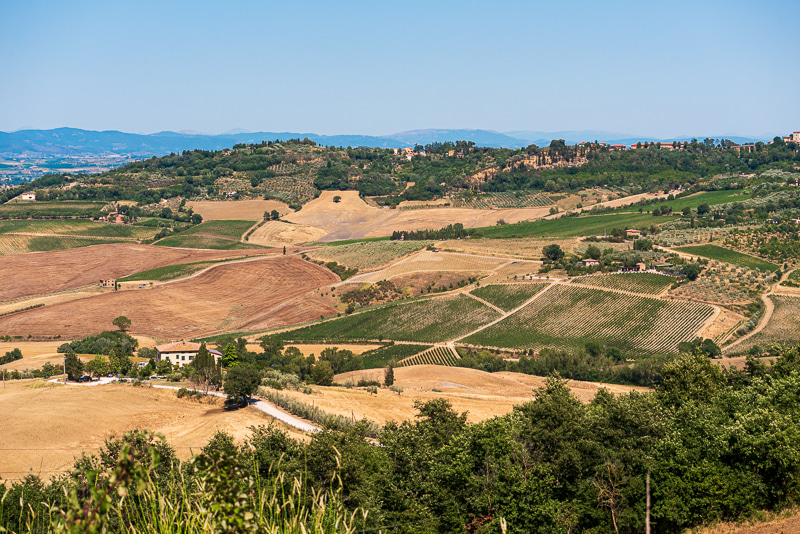
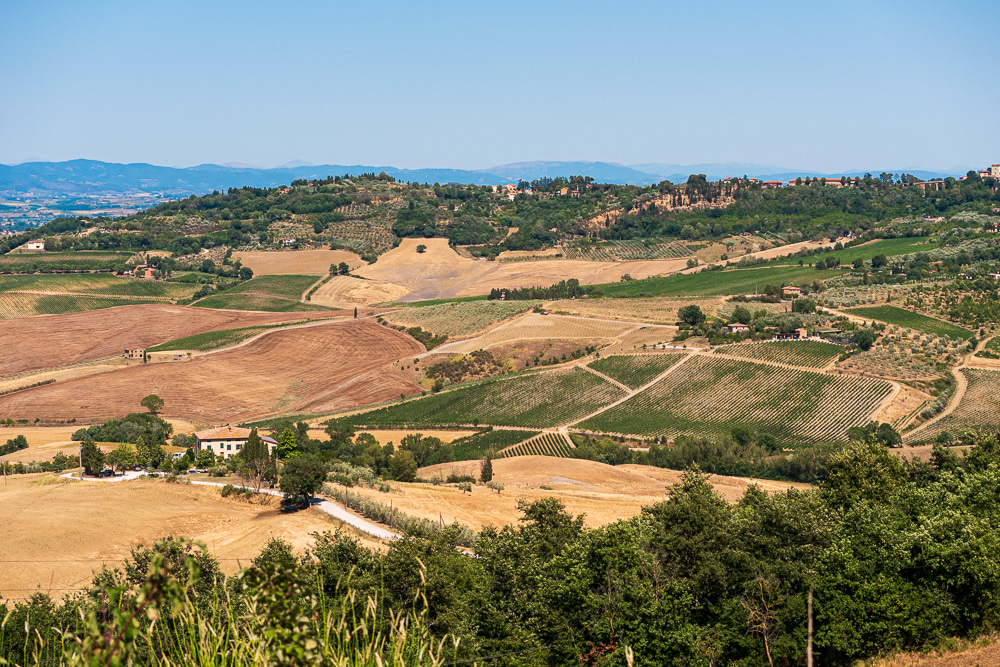
New a bit bigger images. Added intersection observer to style nav items. Switched some divs to section. Added footer. Added temporary alt tags to images.

Changed region(s): [[0.6875, 0.5094, 0.9062, 0.6592], [0.5, 0.6592, 0.5625, 0.6891]]

diff --git a/src/index.html b/src/index.html
@@ -14,86 +14,86 @@
   <nav>
     <ul>
       <li>
-        <a href=#home>Hem</a>
+        <a id="intro-nav" href=#intro>Intro</a>
       </li>
       <li>
-        <a href=#lessions>Lektionerna</a>
+        <a id="lessions-nav" href=#lessions>Lektionerna</a>
       </li>
       <li>
-        <a href=#about>Om mig</a>
+        <a id="about-nav" href=#about>Om mig</a>
       </li>
       <li>
-        <a href=#prices>Priser</a>
+        <a id="prices-nav" href=#prices>Priser</a>
       </li>
       <li>
-        <a href=#contact>Kontakt</a>
+        <a id="contact-nav" href=#contact>Kontakt</a>
       </li>
     </ul>
   </nav>
-  <div id="home" class="main-content">
-    <div class="main-content__section">
-      <div id="top-gallery" class="gallery">
+  <div class="main-content">
+    <section id="intro">
+      <div class="gallery">
         <div class="gallery__image gallery__image--1">
-          <img src="images/_1010360.jpg">
+          <img src="images/_1010360.jpg" alt="Foto från Italien 1">
           <div class="image__caption">
             <span>Skulle du vilja promenera i en italiensk by och kunna prata med människorna där?</span>
           </div>
         </div>
         <div class="gallery__image gallery__image--2">
-          <img src="images/_1050881.jpg"></img>
+          <img src="images/_1050881.jpg" alt="Foto från Italien 2"></img>
           <div class="image__caption">
             <span></span>
           </div>
         </div>
         <div class="gallery__image gallery__image--3">
-          <img src="images/_1010485.jpg"></img>
+          <img src="images/_1010485.jpg" alt="Foto från Italien 3"></img>
           <div class="image__caption">
             <span>Skulle du vilja sitta i en mysig restaurang och kunna beställa på italienska?</span>
           </div>
         </div>
         <div class="gallery__image gallery__image--4">
-          <img src="images/_1020068.jpg"></img>
+          <img src="images/_1020068.jpg" alt="Foto från Italien 4"></img>
           <div class="image__caption">
             <span>skulle du vilja kunna be om tips på fantastiska och hemliga vingårdar på italienska?</span>
           </div>
         </div>
         <div class="gallery__image gallery__image--5">
-          <img src="images/_1060475.jpg"></img>
+          <img src="images/_1060475.jpg" alt="Foto på mig 1"></img>
           <div class="image__caption">
             <span>Jag kan hjälpa :)</span>
           </div>
         </div>
         <div class="gallery__image gallery__image--6">
-          <img src="images/_1090565.jpg"></img>
+          <img src="images/_1090565.jpg" alt="Foto från Italien 5"></img>
           <div class="image__caption">
             <span>Skulle du vilja resa till Cinque Terre och kunna fråga efter vägen på italienska?</span>
           </div>
         </div>
         <div class="gallery__image gallery__image--7">
-          <img src="images/_1090486.jpg"></img>
+          <img src="images/_1090486.jpg" alt="Foto från Italien 6"></img>
           <div class="image__caption">
             <span>Skulle du vilja vandra i Alperna och kunna förstå det som står på skyltarna?</span>
           </div>
         </div>
         <div class="gallery__image gallery__image--8">
-          <img src="images/_1020224.jpg"></img>
+          <img src="images/_1020224.jpg" alt="Foto från Italien 7"></img>
           <div class="image__caption">
             <span>Skulle du vilja besöka ... och kunna prata med personalen på hotellet på italienska?</span>
           </div>
         </div>
         <small class="copyright">© Jesper Klintestam</small>
       </div>
-    </div>
-    <div class="main-content__section">
-      <h1>Privatlektioner i italienska</h1>
-      <p>Du har kanske funderat länge på att lära dig italienska. Reser du ofta dit eller har du ett hus där? Älskar
-        du
-        italiensk mat och kultur? Eller är du fascinerad av italiensk konst och musik? Kanske allt...</p>
-      <p>Hos mig kan du lära dig italienska i din egen takt och på valfri nivå. Du väljer själv vad du vill fokusera
-        på
-        och dina mål med lektionerna. Jag anpassar lektionerna och studiematerialet baserat på dina önskemål.</p>
-    </div>
-    <div id="lessions" class="main-content__section">
+      <section>
+        <h1>Privatlektioner i italienska</h1>
+        <p>Du har kanske funderat länge på att lära dig italienska. Reser du ofta till Italien eller har ett hus där?
+          Älskar
+          du italiensk mat och kultur? Eller är du fascinerad av italiensk konst och musik? Kanske allt...</p>
+        <p>Hos mig kan du lära dig italienska i din egen takt och på valfri nivå. Du väljer själv vad du vill fokusera
+          på
+          och dina mål med lektionerna. Jag anpassar lektionerna och studiematerialet baserat på dina önskemål.</p>
+      </section>
+    </section>
+    <section id="lessions">
       <h1>Lektionerna</h1>
       <h3>Var?</h3>
       <p>Oftast håller jag mina lektioner på Sundbybergs bibliotek där man kan boka fina studierum. Om du hellre vill ha
@@ -120,8 +120,8 @@
           </p>
         </div>
       </div>
-    </div>
-    <div id="about" class="main-content__section">
+    </section>
+    <section id="about">
       <h1>Om mig</h1>
       <div class="position-relative">
         <div class="flex-row simple-gallery">
@@ -152,8 +152,8 @@
           Mi piace l'arte, viaggiare e cucinare!
         </p>
       </div>
-    </div>
-    <div id="prices" class="main-content__section">
+    </section>
+    <section id="prices">
       <h1>Priser</h1>
       <p>1 deltagare 400 kr/tim</p>
       <p>2 deltagare 600 kr/tim</p>
@@ -165,13 +165,13 @@
         <br>
         Godkänd för F-skatt. Alla priser inkl moms.
       </p>
-      <div class="map">
+      <div class="map-container">
         <iframe width="1200" height="250" frameborder="0" style="border:0"
           src="https://www.google.com/maps/embed/v1/place?key=AIzaSyClrI_8TiuAfURDyFRSwBQ28OGXMtOnfS4&q=Sundbybergs+bibliotek"
           allowfullscreen></iframe>
       </div>
-    </div>
-    <div id="contact" class="main-content__section">
+    </section>
+    <section id="contact">
       <h1>Kontakta mig</h1>
       <p>
         Email: <a href="mailto:fratonelli8@gmail.com" target="_blank">fratonelli8@gmail.com</a>
@@ -179,9 +179,10 @@
       <p>
         Tel: 0700-602068
       </p>
-    </div>
+    </section>
   </div>
-  <!-- <script src="js/scripts.js"></script> -->
+  <footer></footer>
+  <script src="scripts.js"></script>
 </body>
 
 </html>

diff --git a/src/styles.scss b/src/styles.scss
@@ -8,6 +8,7 @@ $brown-light: #f1dbd3;
 $brown-medium: #af968c;
 $brown-medium-transparent: rgba(175, 150, 140, 0.6);
 $brown-dark: #74262c;
+$navbar-height: calc(0.6vw + 27px);
 
 //Generic elements
 html {
@@ -33,6 +34,7 @@ nav {
   padding: 0;
   z-index: 1;
   text-align: left;
+  min-height: $navbar-height;
 
   ul {
     list-style: none;
@@ -45,9 +47,11 @@ nav {
 
   a {
     display: block;
-    padding: 6px;
+    margin: 6px;
     color: $brown-medium;
     text-decoration: none;
+    transition: border 200ms;
+    border-bottom: 1px solid transparent;
 
     @media (max-width: 600px) {
       font-size: calc(0.3em + 2.5vw);
@@ -95,6 +99,7 @@ h4,
 h5,
 h6 {
   cursor: default;
+  margin: 0;
 }
 
 img {
@@ -103,17 +108,26 @@ img {
   vertical-align: middle;
 }
 
+footer {
+  height: 10vw;
+}
+
 //Styling classes
 .flex-row {
   display: flex;
   flex-flow: wrap;
   justify-content: center;
   align-content: center;
-  position: relative;
 }
 
 .position-relative {
   position: relative;
+}
+
+//Added with js
+.current-section {
+  font-weight: bold;
+  border-bottom: 1px solid $brown-dark;
 }
 
 //Specific classes
@@ -126,18 +140,16 @@ img {
 }
 
 .main-content {
-  padding-top: 30px;
-
-  .main-content__section:nth-child(even) {
+  > section:nth-child(odd) {
     background-color: $brown-light;
   }
 }
 
-.main-content__section {
-  padding: calc(0.8% + 20px) 0;
+.main-content section {
+  padding: $navbar-height 0;
 }
 
-.main-content__section > p,
+.main-content section > p,
 nav ul {
   margin: 0 auto;
   @media (min-width: 1200px) {
@@ -155,9 +167,15 @@ nav ul {
     "sixth seventh seventh eighth  fifth";
   place-content: center;
   position: relative;
+  background-color: white;
+  padding: $navbar-height 0;
 
   @media (min-width: 992px) {
     max-height: calc(100px + 23vw);
+  }
+
+  .copyright {
+    bottom: calc(#{$navbar-height} - 1.2em);
   }
 }
 
@@ -229,6 +247,7 @@ nav ul {
 
 .simple-gallery {
   overflow: hidden;
+  margin: $navbar-height 0;
 
   @media (min-width: 600px) {
     max-height: calc(60px + 23vw);
@@ -254,6 +273,6 @@ nav ul {
   font-size: 0.8em;
 }
 
-.map iframe {
+.map-container iframe {
   max-width: 100%;
 }

diff --git a/src/scripts.js b/src/scripts.js
@@ -1,0 +1,23 @@
+
+let observer = new IntersectionObserver(entries => {
+    entries.forEach((entry) => {
+        if (entry.isIntersecting) {
+            navAnchorArray.forEach(x => x.classList.remove('current-section'));
+            if (entry.intersectionRatio < 0.9) {
+                if (entry.boundingClientRect.top < entry.intersectionRect.top) {
+                    document.getElementById(entry.target.id + '-nav').parentElement.nextElementSibling.firstElementChild.classList.add('current-section');
+                } else {
+                    document.getElementById(entry.target.id + '-nav').parentElement.previousElementSibling.firstElementChild.classList.add('current-section');
+                }
+            } else {
+                document.getElementById(entry.target.id + '-nav').classList.add('current-section');
+            }
+        }
+    });
+}, { threshold: [0, 0.9, 1], rootMargin: "50px 0px 50px 0px" });
+
+//An array with all anchor elements in nav
+const navAnchorArray = [...document.querySelectorAll('nav ul li a')];
+//An array with all the element ids to target, taken from the hrefs in the nav
+const observeArray = navAnchorArray.map(x => x.getAttribute('href').slice(1));
+observeArray.forEach(id => { observer.observe(document.getElementById(id)) });

diff --git a/readme.md b/readme.md
@@ -1,2 +1,13 @@
 # The webpage Fratilienska
 www.fratilienska.se
+
+## Tools used during production:
+1. Image optimizer plugin for Lightroom
+https://github.com/ftischhauser/JPEGOptimizer
+2. Web application bundler Parcel
+https://parceljs.org
+3. Sass
+4. Autoprefixer
+https://github.com/postcss/autoprefixer
+5. Hosting at 
+https://app.netlify.com
